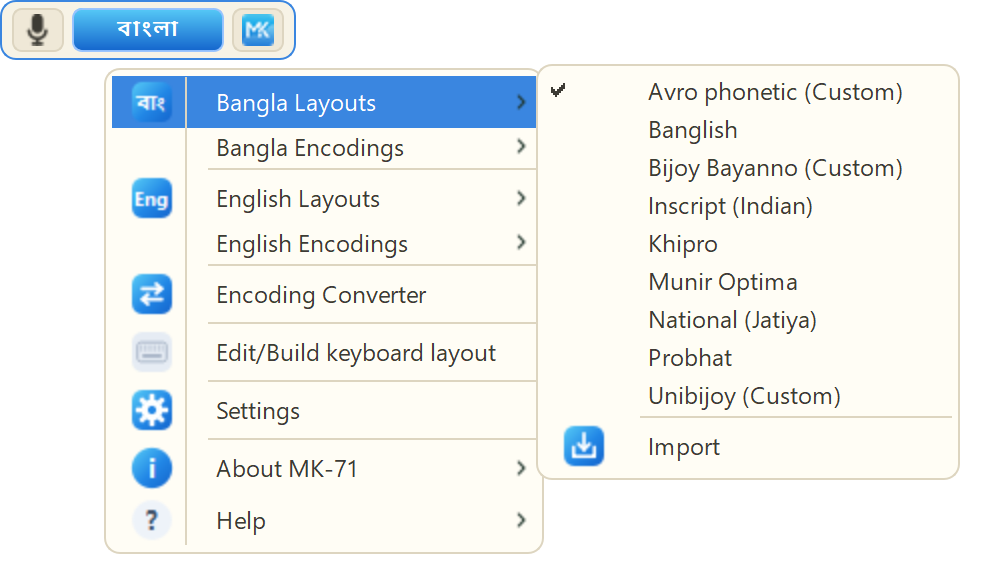
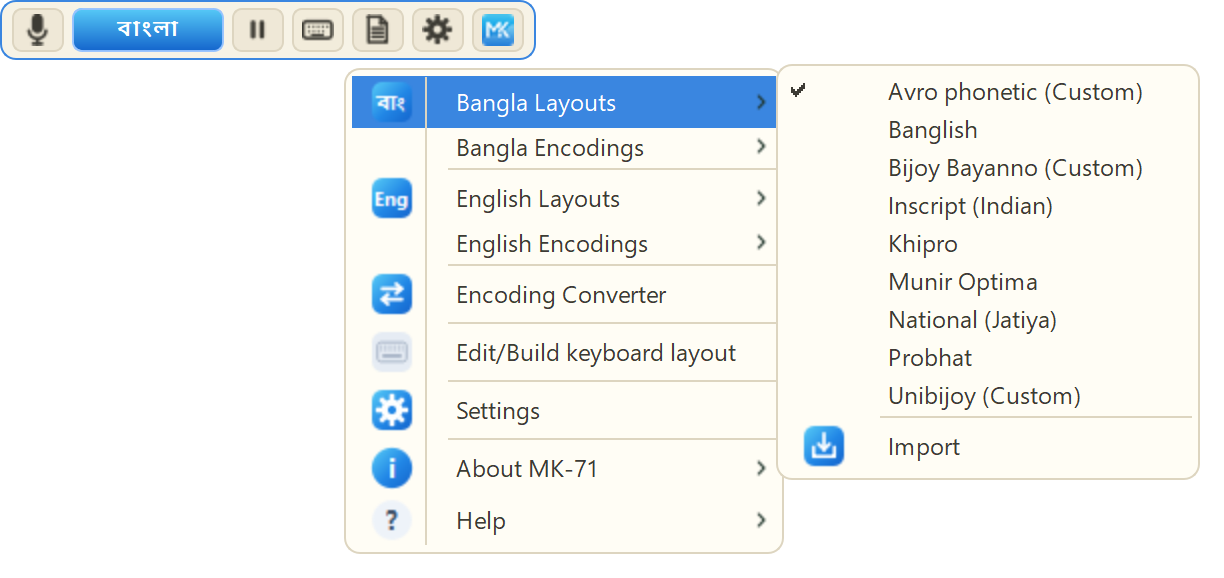
Show the English keyboard and the whole top bar on the download page.
The English layout had no picture, and the menu shot cropped the bar down to three buttons, so it now opens the full strip with every button before the menu is drawn.

diff --git a/docs/download.html b/docs/download.html
@@ -137,7 +137,8 @@
 
   <div class="shots">
     <img src="screenshots/keyboard-bangla.png" alt="MK-71 Keyboard — বাংলা কিবোর্ড (Avro phonetic লেআউট)" width="1872" height="668">
-    <img src="screenshots/layouts-menu.png" alt="MK-71 Keyboard — বাংলা লেআউট মেনু (Avro, Bijoy Bayanno, Probhat, Unibijoy)" width="984" height="578">
+    <img src="screenshots/keyboard-english.png" alt="MK-71 Keyboard — English QWERTY কিবোর্ড" width="1872" height="668">
+    <img src="screenshots/layouts-menu.png" alt="MK-71 Keyboard — টপ বার ও বাংলা লেআউট মেনু (Avro, Bijoy Bayanno, Probhat, Unibijoy)" width="1224" height="578">
   </div>
 
   <h2 class="sec" data-en="🖥 System requirements">🖥 সিস্টেম চাহিদা</h2>
